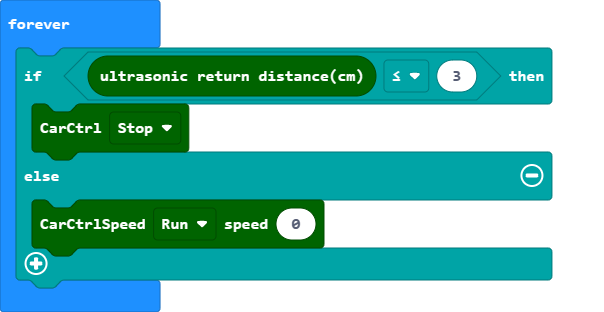
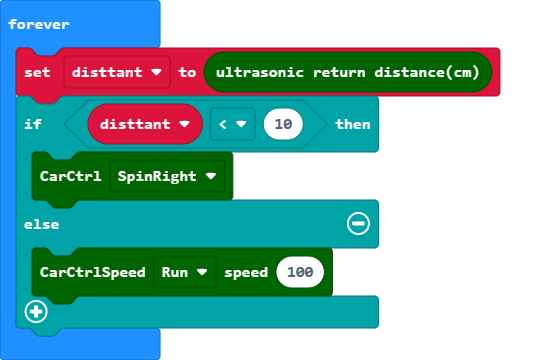
Update main.blocks, main.ts

diff --git a/main.ts b/main.ts
@@ -1,7 +1,9 @@
+let disttant = 0
 basic.forever(function () {
-    if (Tinybit.Ultrasonic_Car() <= 3) {
-        Tinybit.CarCtrl(Tinybit.CarState.Car_Stop)
+    disttant = Tinybit.Ultrasonic_Car()
+    if (disttant < 10) {
+        Tinybit.CarCtrl(Tinybit.CarState.Car_SpinRight)
     } else {
-        Tinybit.CarCtrlSpeed(Tinybit.CarState.Car_Run, 0)
+        Tinybit.CarCtrlSpeed(Tinybit.CarState.Car_Run, 100)
     }
 })
